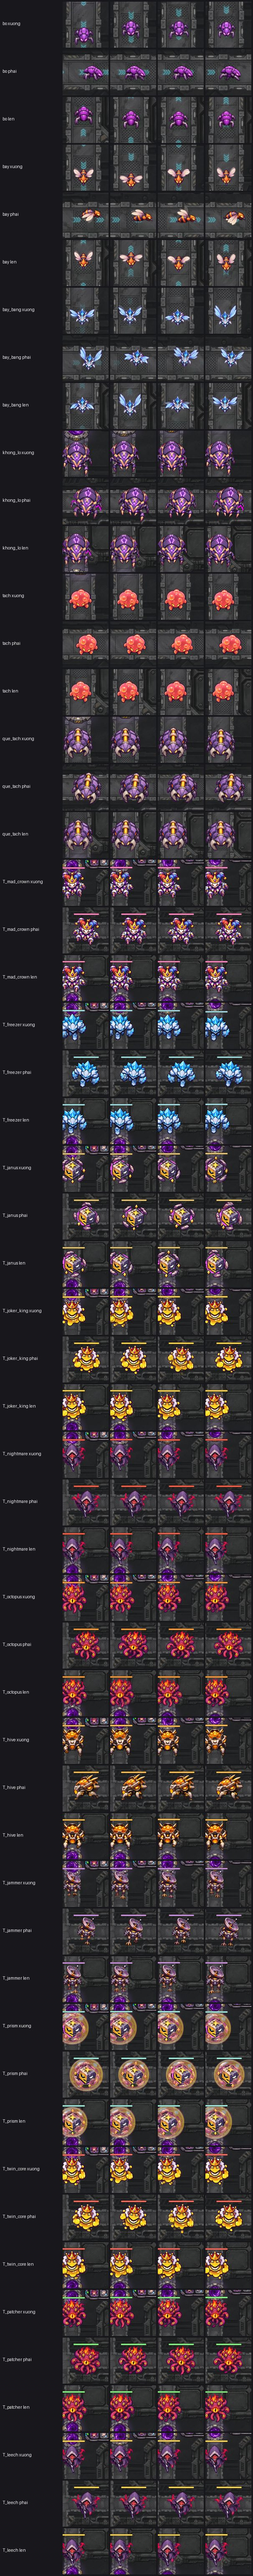
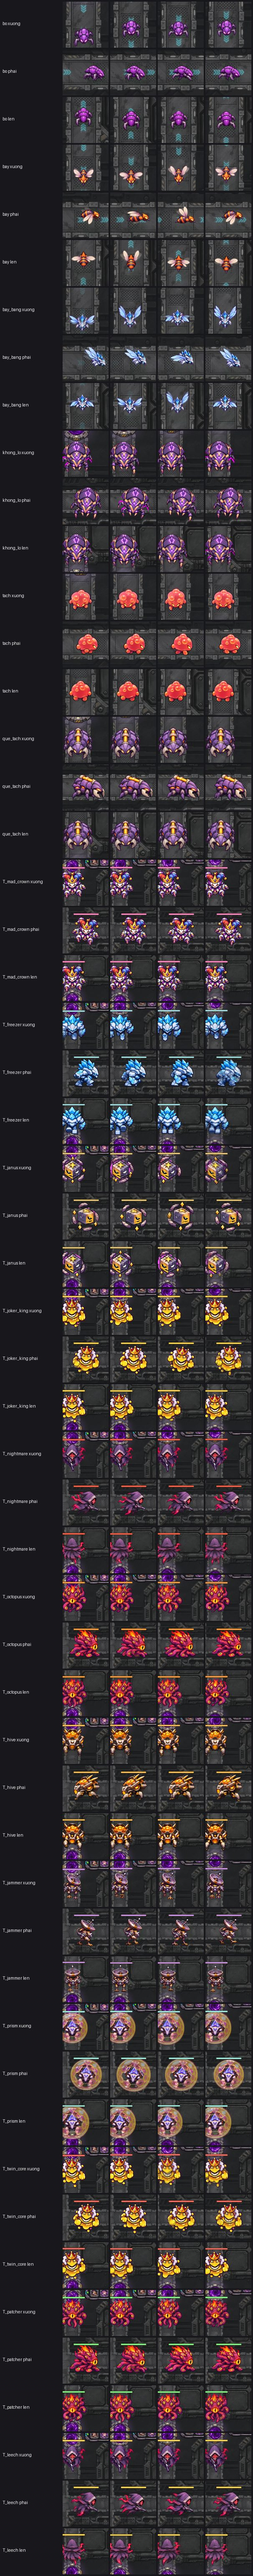
thap huong3: ket qua kiem cuoi (kt-huong 0 sai, fps 60/57/51, 3 che do) + BANG.md cap nhat; HOI-QUY: online_tran truot co san (khong do huong3)
Claude-Session: https://claude.ai/code/session_016VkJ26f22ubevy4EnREsEV

Changed region(s): [[0.6238, 0.0, 0.9802, 1.0], [0.2376, 0.0, 0.5941, 1.0], [0.9505, 0.8727, 0.9802, 0.9039]]

diff --git a/tools/thap-huong-bang.py b/tools/thap-huong-bang.py
@@ -22,7 +22,7 @@ for id, l, nhom in LOAI:
     cho = lambda v: f'raw_p12_{id}_{v}.png' in can or (nhom == 'trùm mới')
     o = lambda f, v: '✅' if co(f) else ('⏳' if cho(v) else '—')
     side, back, left = g + '_side_8.png', g + '_back_8.png', g + '_left_8.png'
-    danh = '✅ dải 16' if co(g + '_atk_16.png') else ('✅ khung 3 (dải 4 cũ)' if l == 'trum' and co(g + '.png') else ('⏳ (q_p6 fx)' if nhom == 'trùm mới' else 'không có chiêu'))
+    danh = '✅ dải 16' if co(g + '_atk_16.png') else '✅ nhìn bàn (dải trước) + hiệu ứng rời fx_trum' if co(f'fx_trum_{id}.png') else ('✅ khung 3 (dải 4 cũ)' if l == 'trum' and co(g + '.png') else ('⏳ (q_p6 fx)' if nhom == 'trùm mới' else 'không có chiêu'))
     dong.append(f"| {id} | {nhom} | {'✅' if tr else '⏳ mượn ' + str(m)} | {o(side, 'side') if co(side) else o(side, 'side') + ' ↔'} | {'✅' if co(left) else ('⇋' if co(side) else '↔')} | {o(back, 'back') if co(back) else o(back, 'back') + ' ↔'} | {danh} |")
     hang.append((f'{id} ({nhom})', [g + '_8.png' if tr else f'trum_{m}_8.png', side, back, g + '_atk_16.png']))
 dong += ['', 'Tờ ảnh: `bang.png` (cột: trước · ngang · sau · đánh; ô trống = chưa có). Dải khung khi đi thật mỗi chế độ: `tong_solo.jpg`, `tong_coop.jpg`, `tong_pvp.jpg`; số liệu: `ketqua.json` (tools/thap-kt-huong.js).',

diff --git a/docs/demo-hop-tuong/HOI-QUY.md b/docs/demo-hop-tuong/HOI-QUY.md
@@ -61,3 +61,7 @@ Nhiều phiên cùng sửa thap/ một lúc, mỗi phiên chỉ chụp màn mìn
 ## 2026-11-05 — 404 trum_hive.png / trum_jammer.png (390x844, trum_jammer/prism/twin_core/patcher)
 Sau khi hive/jammer có ảnh riêng (TRUM_ANH), lúc trùm báo chiêu `quaianim.js` vẫn nạp dải 4 khung `trum_<id>` (không tồn tại) → 404 lặp.
 Sửa: bỏ nạp dải 4 khung cho trùm đã có ảnh riêng (dùng dải _8 / dải đánh). Kiểm lại 390x844x3 NHANH: XANH.
+
+## 2026-11-05 — session huong3 (hướng nhìn tinh anh/trùm)
+- Kiểm 390x844x3 NHANH: menu/solo/coop/pvp/landau XANH; **online_tran TRƯỢT (kẹt chờ `ONS.on && G.ban.length===2`)** — lỗi CÓ SẴN, không do huong3:
+  chạy lại với quaianim.js + trum.js bản trước huong3 (4ff9437) vẫn trượt y hệt. Xuất hiện sau đợt sửa sảnh online 9151d9e (phiên online đang làm) → giao phiên online.

diff --git a/docs/demo-hop-tuong/tuvan/huong3/BANG.md b/docs/demo-hop-tuong/tuvan/huong3/BANG.md
@@ -17,7 +17,7 @@
 | nightmare | trùm cũ | ✅ | ✅ | ⇋ | ✅ | ✅ khung 3 (dải 4 cũ) |
 | octopus | trùm cũ | ✅ | ✅ | ⇋ | ⏳ ↔ | ✅ khung 3 (dải 4 cũ) |
 | hive | trùm mới | ✅ | ✅ | ⇋ | ✅ | ✅ dải 16 |
-| jammer | trùm mới | ✅ | ✅ | ⇋ | ✅ | ⏳ (q_p6 fx) |
+| jammer | trùm mới | ✅ | ✅ | ⇋ | ✅ | ✅ nhìn bàn (dải trước) + hiệu ứng rời fx_trum |
 | prism | trùm mới | ✅ | ⏳ ↔ | ↔ | ⏳ ↔ | ⏳ (q_p6 fx) |
 | twin_core | trùm mới | ⏳ mượn joker_king | ⏳ ↔ | ↔ | ⏳ ↔ | ⏳ (q_p6 fx) |
 | patcher | trùm mới | ⏳ mượn octopus | ⏳ ↔ | ↔ | ⏳ ↔ | ⏳ (q_p6 fx) |
